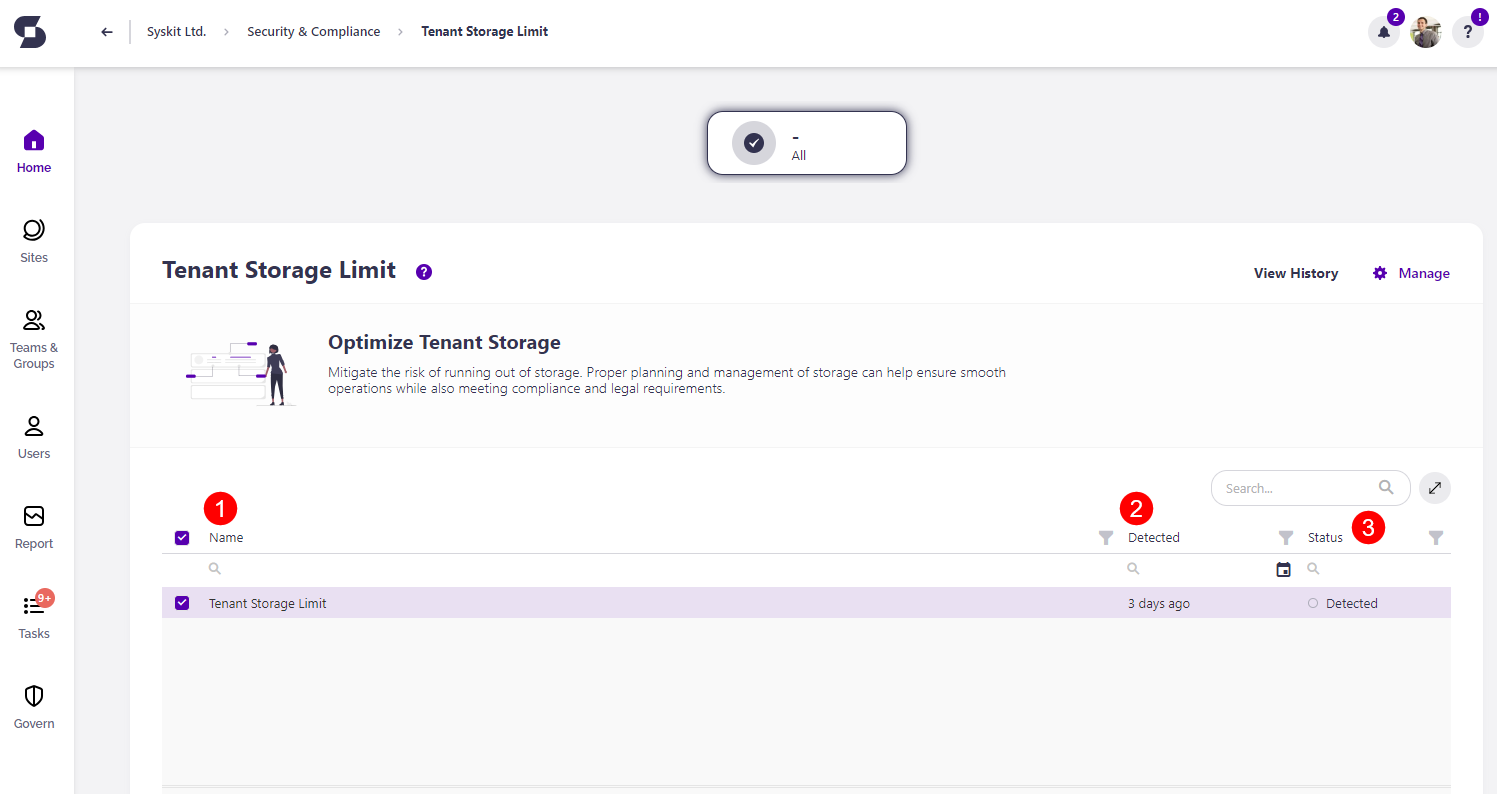
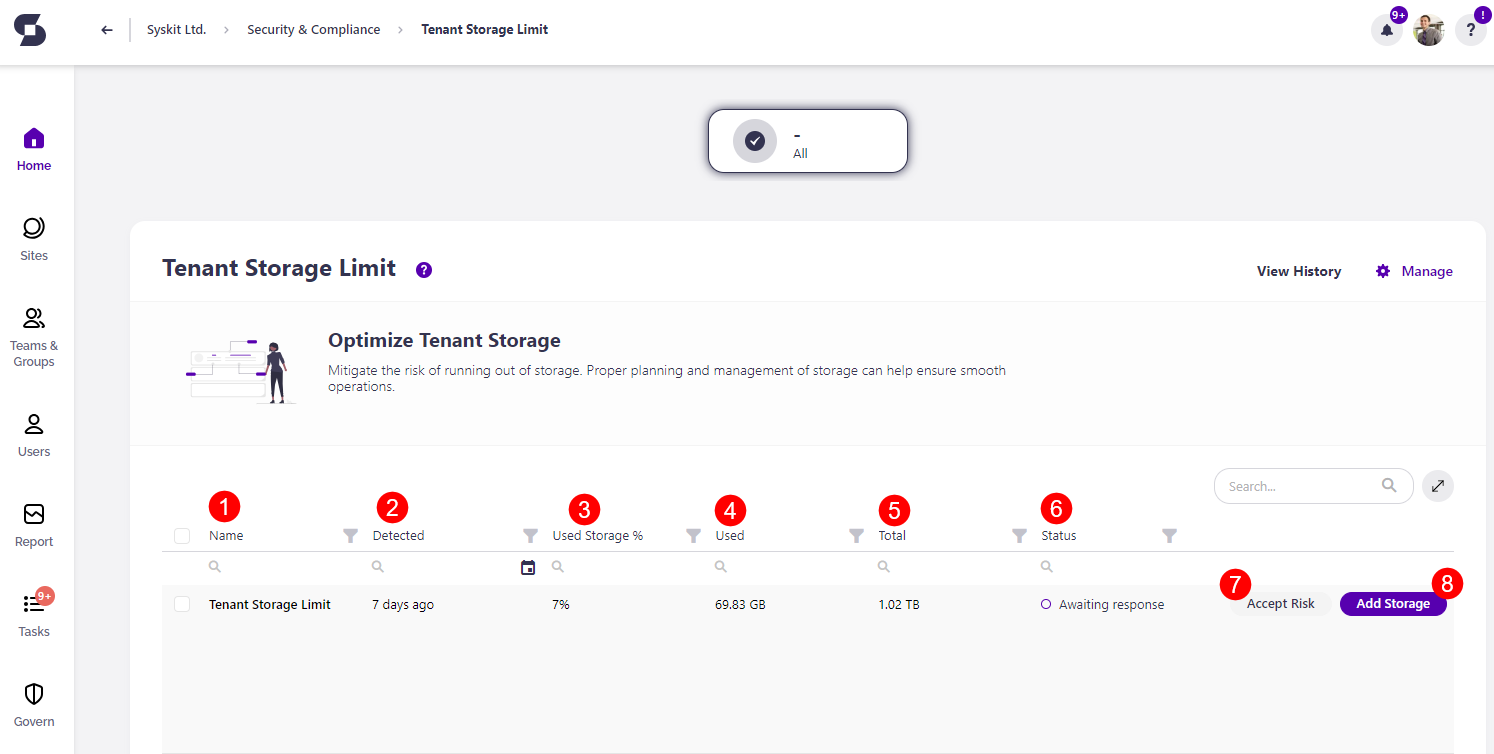
automation

diff --git a/governance-and-automation/security-compliance-checks/tenant-storage.md b/governance-and-automation/security-compliance-checks/tenant-storage.md
@@ -9,9 +9,10 @@ Syskit Point mitigates the risk of running out of storage based on the settings 
 
 The purpose of the Tenant Storage Limit check is to **notify you when your storage percentage gets close to the limit you set**. This information can help you determine whether you should change the storage limit set for the policy, remove any redundant content to free up space or purchase additional storage from Microsoft.
 
-The Tenant Storage policy is **a tenant-wide policy, and it cannot be automated**. That means that no tasks are created to resolve this policy violation, and no emails are sent to collaborators.
 
-When a tenant storage limit is exceeded, Syskit Point **detects the policy vulnerability** and shows it on the Security and Compliance dashboard. **This means that Syskit Point detects a vulnerability on a workspace** based on the applied policy, but it does not create tasks or send any emails. 
+The Tenant Storage policy is **a tenant-wide policy, and it can be automated**. When automation is enabled, Syskit Point creates tasks and sends emails to users as defined in the policy settings. To learn more, take a look at the [Tenant Storage Limit policy article](../../governance-and-automation/automated-workflows/tenant-storage-admin.md).
+
+By default, the automation is turned off for this policy, but when the tenant storage limit is exceeded, Syskit Point **detects the policy vulnerability** and shows it on the Security and Compliance dashboard. **This means that Syskit Point detects a vulnerability on a workspace** based on the applied policy, but it does not create tasks or send any emails to workspace owners. 
 
 The purpose of this is to assist Syskit Point admins by
 bringing awareness of potential issues in their Microsoft 365 environment. 
@@ -23,13 +24,22 @@ The Tenant Storage Limit screen opens, **showing the Tenant Storage Limit violat
 The report provides information on:
   * **Name (1)** of the policy
   * **Detected (2)** - when the policy violation was detected
-  * **Status (3)** - the status of the policy violation
+  * **Used Storage % (3)** - the percentage of storage that is used
+  * **Used (4)** - the amount of storage that is used
+  * **Total (5)** - the total amount of storage available
+  * **Status (6)** - the status of the policy violation
+
+There are two actions that can be completed for this violation:
+ * **Accept Risk (7)**
+   * Clicking Accept Risk opens a pop-up where you can **select the amount of days** you want Syskit Point to ignore this policy violation
+   * Clicking the **Accept Risk button** finalizes your decision
+ * **Add Storage (8)** 
+   * Clicking Add Storage redirects you to the Microsoft 365 article that explains how to add more SharePoint storage to your tenant
 
 ![Tenant Storage Limit - Security & Compliance checks report](../../.gitbook/assets/security-compliance-checks_tenant-storage-limits.png)
 
-While there are no actions you can take directly on the Syskit Point report, there are a few ways to resolve this violation:
+Other than the actions available in the report, there are a few additional ways to resolve this violation:
   * **Increasing the storage limit percentage** that is set for the [Tenant Storage Limit policy](../automated-workflows/tenant-storage-admin.md)
   * **Removing unnecessary or redundant content** from your sites and cleaning up your tenant to free up storage
-  * **Purchasing additional storage options** directly from Microsoft
 
 Completing any of the above actions resolves the Security & Compliance checks violation. 

diff --git a/governance-and-automation/automated-workflows/tenant-storage-admin.md b/governance-and-automation/automated-workflows/tenant-storage-admin.md
@@ -19,6 +19,11 @@ The **Edit Policy** pop-up dialog opens where you can:
 * **Select the Severity level (2)**
   * The severity level set by default for this policy is High
   * You can select between three levels of severity: **High, Medium, or Low**
+* **Click the toggle to turn on automation (3)** for the policy
+  * Once automation is enabled you can **choose who to notify** about storage consumptions:
+    * Syskit Point Administrators, or
+    * Custom Recipients 
+
 
 Once the policy is set to your preference, **click the Save button (3)** to finalize. 
 
